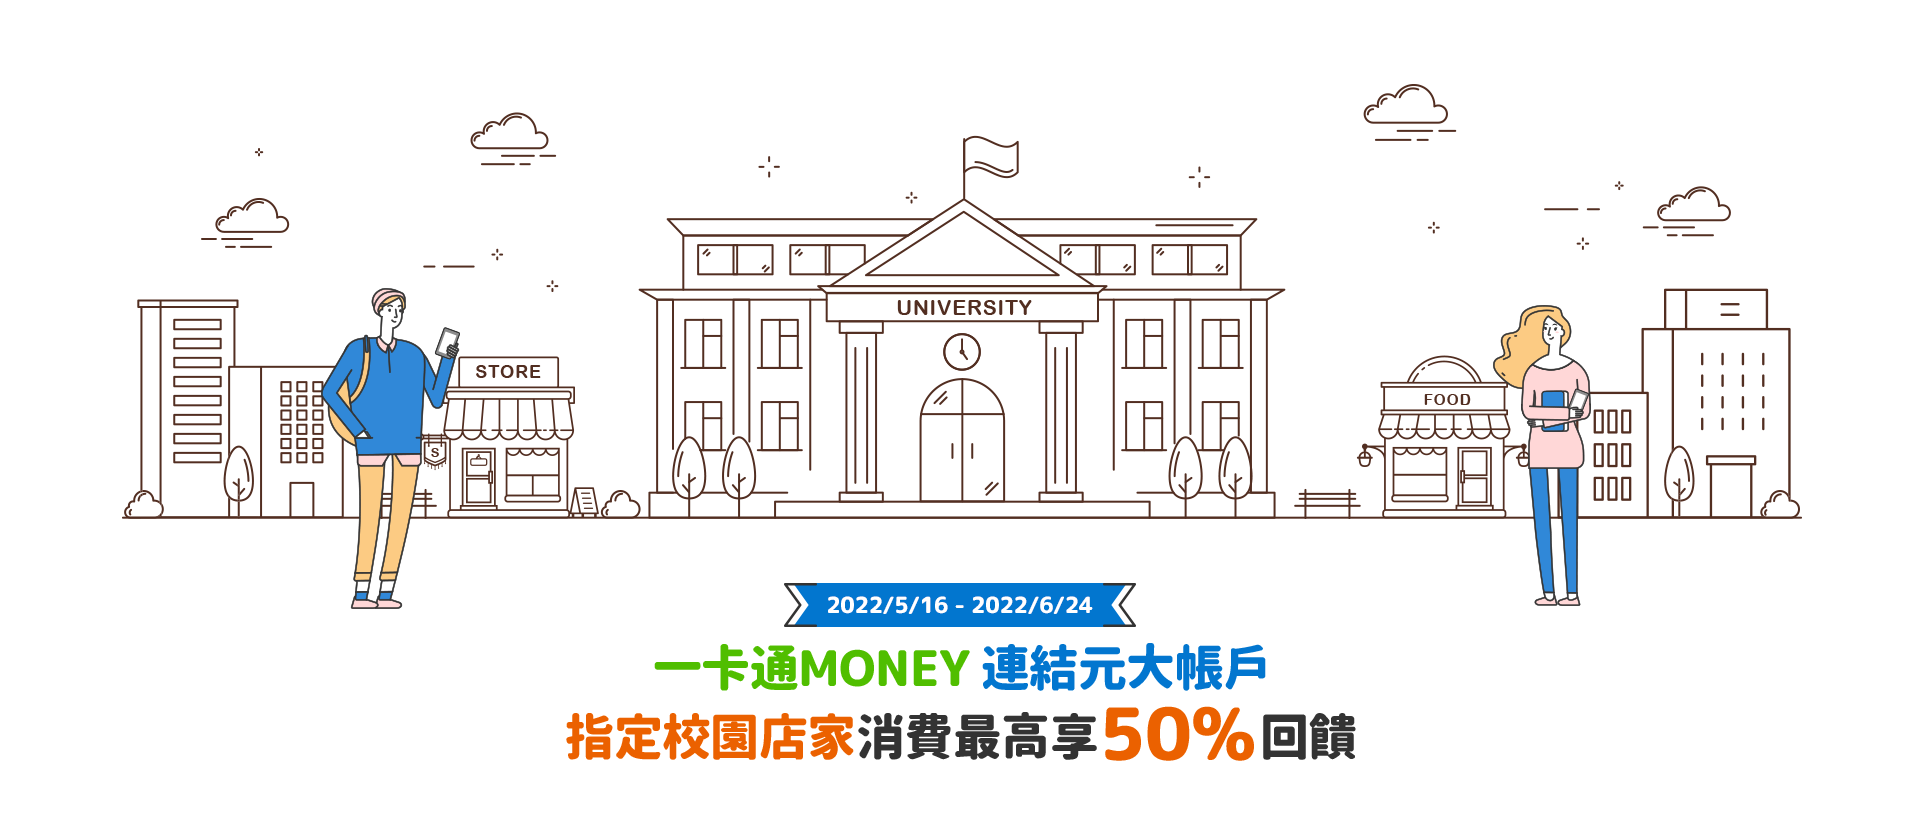
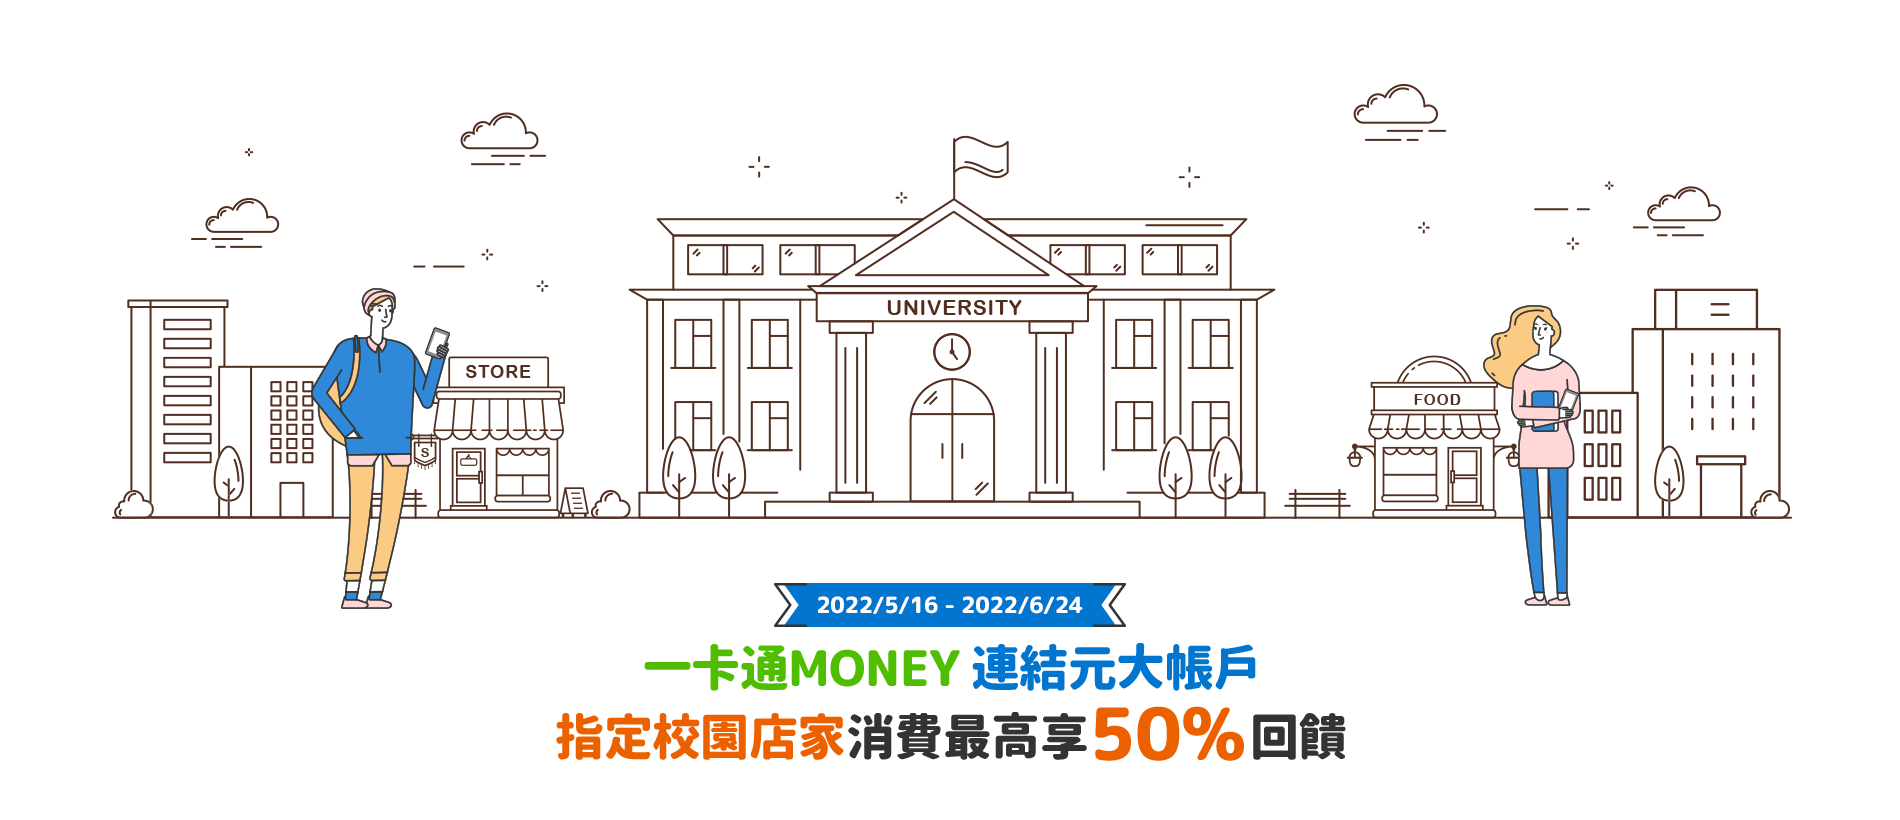
san

diff --git a/assets/css/main.css b/assets/css/main.css
@@ -4,14 +4,20 @@ body{width: 100%; height: 100%; font-family: '微軟正黑體', 'MS UI Gothic','
 a,a:hover,a:active,a:visited {display: inline-block; color: #005bac; text-decoration: none;}
 table{width: 100%; border-collapse: collapse; border-spacing: 0;}
 table,tr,th,td{margin: 0; padding: 0;}
-img{margin: 0; padding: 0; display: block;}
+img{margin: 0; padding: 0; display: block;
+    image-rendering:-moz-crisp-edges;
+    image-rendering:-o-crisp-edges;
+    image-rendering:-webkit-optimize-contrast;
+    image-rendering: crisp-edges;
+    -ms-interpolation-mode: nearest-neighbor;
+    -webkit-font-smooting:  antialiased;}
 
 .main{width: 100%; max-width: 1920px; margin: 0 auto; overflow: hidden; color:#333333; padding-top: 80px; font-size: 12px;}
 .section{width: 100%; max-width: 1920px; margin: 0 auto;}
 
 /* kv */
 .kv_container{width: 100%; margin: 0 auto; background: #fff5e4;}
-.kv{width: 100%; height: 0; padding-bottom: 42.7%; text-align: center; background: #fff3e5 url("../images/campus.png") center top no-repeat; background-size: 100% auto; position: relative;}
+.kv{width: 100%; max-width: 1900px; height: 0; padding-bottom: 42.7%; text-align: center; background: #fff3e5 url("../images/campus.png") center top no-repeat; background-size: 100% auto; position: relative;}
 .kv .kv_logo{width: 26%; margin: 0 auto; padding-top: 3%;}
 .kv .student2{width: 8.7%; position: absolute; top: 21%; left: 28.9%; opacity: 0; 
   -webkit-animation-name: expandUp,moved;
@@ -88,7 +94,7 @@ img{margin: 0; padding: 0; display: block;}
 .content .btn:hover img{-webkit-transform:translateY(8px);transform:translateY(8px);}
 /* notice */
 .notice_container{background: #fccb83;}
-.notice_container::after{content: ''; display: block; width: 100%; height: 0; padding-bottom: 4%; background: #fccb83 url("../images/book2.png") center top no-repeat; background-size: 100% auto;}
+.notice_container::after{content: ''; display: block; width: 100%; height: 0; padding-bottom: 4%; background: #fccb83 url("../images/book2.png") center bottom no-repeat; background-size: 100% auto;}
 .notice{width: 100%; max-width: 1400px; margin: 0 auto; font-size: 16px; line-height: 28px; padding: 0 5% 3%; text-align: justify;}
 .notice .tit3{width: 180px; margin: 0 auto; padding: 3% 0;}
 .notice h2{font-size: 24px; font-weight: bold; text-align: center; color: #005bac;}
